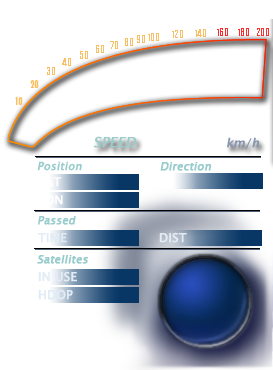
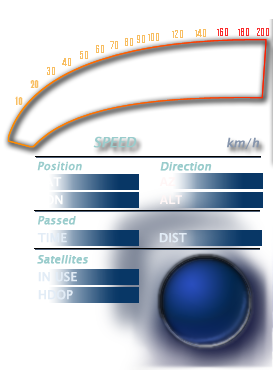
altitude display on dashboard

Changed region(s): [[0.5861, 0.5054, 0.967, 0.5649]]

diff --git a/GMView/GPS/GPSTrack.cs b/GMView/GPS/GPSTrack.cs
@@ -154,6 +154,7 @@ namespace GMView
             public string curLon = "";
             public string curLat = "";
             public string curDir = "";
+            public string curAlt = "";
 
             public string travelTime = "";
             public string travelDistance = "";
@@ -178,6 +179,7 @@ namespace GMView
                 curLat = ncUtils.Glob.latString(pos.lat);
                 curLon = ncUtils.Glob.lonString(pos.lon);
                 curDir = ncUtils.Glob.courseString(pos.dir_angle);
+                curAlt = pos.height.ToString("F1");
 
                 travelDistance = (gtrack.distance / Program.opt.km_or_miles).ToString("F2");
                 TimeSpan tt = pos.utc_time - gtrack.startTime.ToUniversalTime();

diff --git a/GMView/Dash/GPSInfoDash.cs b/GMView/Dash/GPSInfoDash.cs
@@ -154,9 +154,10 @@ namespace GMView
 
                     GML.device.color(textcolor);
 
-                    fnt.drawright(info.curLat, ix + 134, iy - 175, 0);
+                    fnt.drawright(info.curLat, ix + 134, iy - 174, 0);
                     fnt.drawright(info.curLon, ix + 134, iy - 192, 0);
-                    fnt.drawright(info.curDir, ix + 258, iy - 175, 0);
+                    fnt.drawright(info.curDir, ix + 258, iy - 174, 0);
+                    fnt.drawright(info.curAlt, ix + 258, iy - 192, 0);
                     fnt.drawright(info.travelDistance, ix + 258, iy - 231, 0);
                     fnt.drawright(info.travelTime, ix + 134, iy - 231, 0);
 

diff --git a/GMView/Options.cs b/GMView/Options.cs
@@ -36,7 +36,7 @@ namespace GMView
             geoSystem[(int)MapTileType.SatStreet] = new GoogleGeo();
             geoSystem[(int)MapTileType.OSMMapnik] = new GoogleGeo();
             geoSystem[(int)MapTileType.OSMRenderer] = new GoogleGeo();
-            geoSystem[(int)MapTileType.TerMap] = new YandexGeo();
+            geoSystem[(int)MapTileType.TerMap] = new GoogleGeo();
             geoSystem[(int)MapTileType.YandexMap] = new YandexGeo();
             geoSystem[(int)MapTileType.YandexSat] = new YandexGeo();
             geoSystem[(int)MapTileType.YandexSatSteet] = new YandexGeo();
